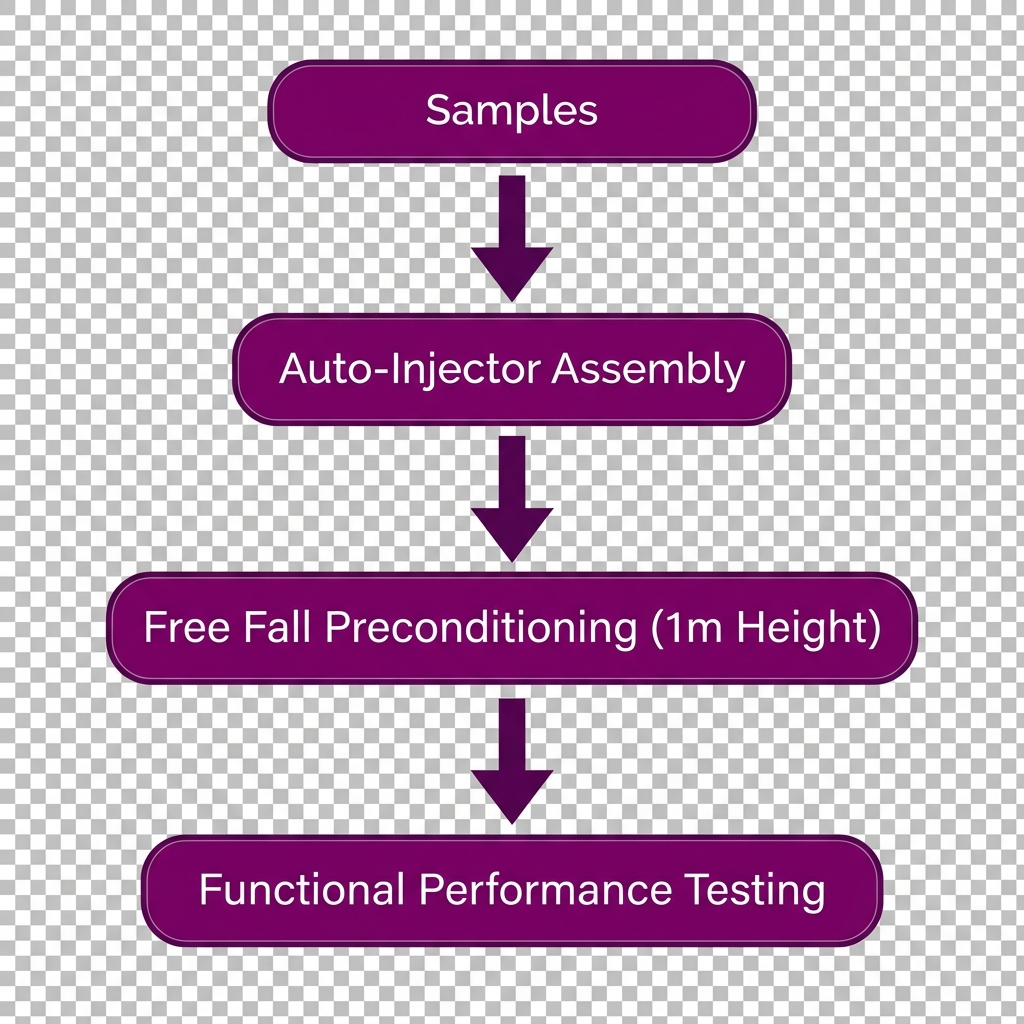
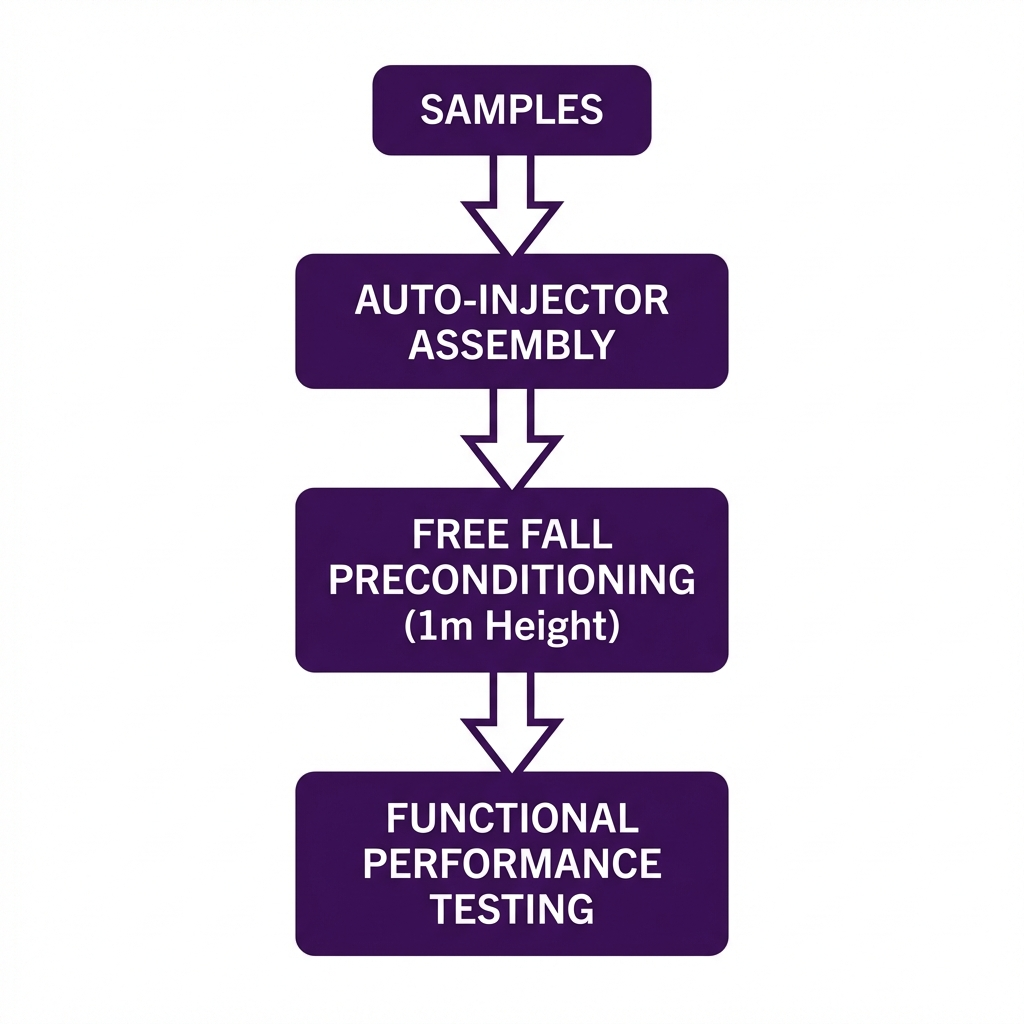
Refine flowchart backgrounds (solid white) and reduce display size by 20%

diff --git a/documents/03-design-verification/100-005-STP-002_Accelerated_Aging_Stability_Plan.html b/documents/03-design-verification/100-005-STP-002_Accelerated_Aging_Stability_Plan.html
@@ -186,7 +186,7 @@
         <h2>5. Product Test Flow Diagram</h2>
         <div class="figure-container">
             <img src="../../assets/images/product_testing_flowchart_en.png" alt="Product Testing Flowchart"
-                style="max-width: 80%; height: auto; border: none; padding: 10px;">
+                style="max-width: 65%; height: auto; border: none; padding: 10px;">
             <p class="figure-caption">Figure 5-1: Product Aging and Performance Testing Flowchart</p>
         </div>
         <h2>6. Accelerated Aging Test</h2>

diff --git a/documents/03-design-verification/100-005-STP-001_Real-time_Aging_Stability_Plan.html b/documents/03-design-verification/100-005-STP-001_Real-time_Aging_Stability_Plan.html
@@ -209,7 +209,7 @@
         <h2>5. Product Test Flow Diagram</h2>
         <div class="figure-container">
             <img src="../../assets/images/product_testing_flowchart_en.png" alt="Product Testing Flowchart"
-                style="max-width: 80%; height: auto; border: none; padding: 10px;">
+                style="max-width: 65%; height: auto; border: none; padding: 10px;">
             <p class="figure-caption">Figure 5-1: Product Aging and Performance Testing Flowchart</p>
         </div>
         <div class="page-break"></div>

diff --git a/documents/03-design-verification/100-005-RTP-001_Free_Fall_Test_Protocol.html b/documents/03-design-verification/100-005-RTP-001_Free_Fall_Test_Protocol.html
@@ -265,7 +265,7 @@
         <h3>8.1. Product Test Flow Diagram</h3>
         <div class="figure-container">
             <img src="../../assets/images/free_fall_testing_flowchart_en.png" alt="Free Fall Test Flowchart"
-                style="max-width: 60%; height: auto; border: none; padding: 10px;">
+                style="max-width: 48%; height: auto; border: none; padding: 10px;">
             <p class="figure-caption">Figure 8-1: Free Fall Test and Performance Testing Flowchart</p>
         </div>
 
